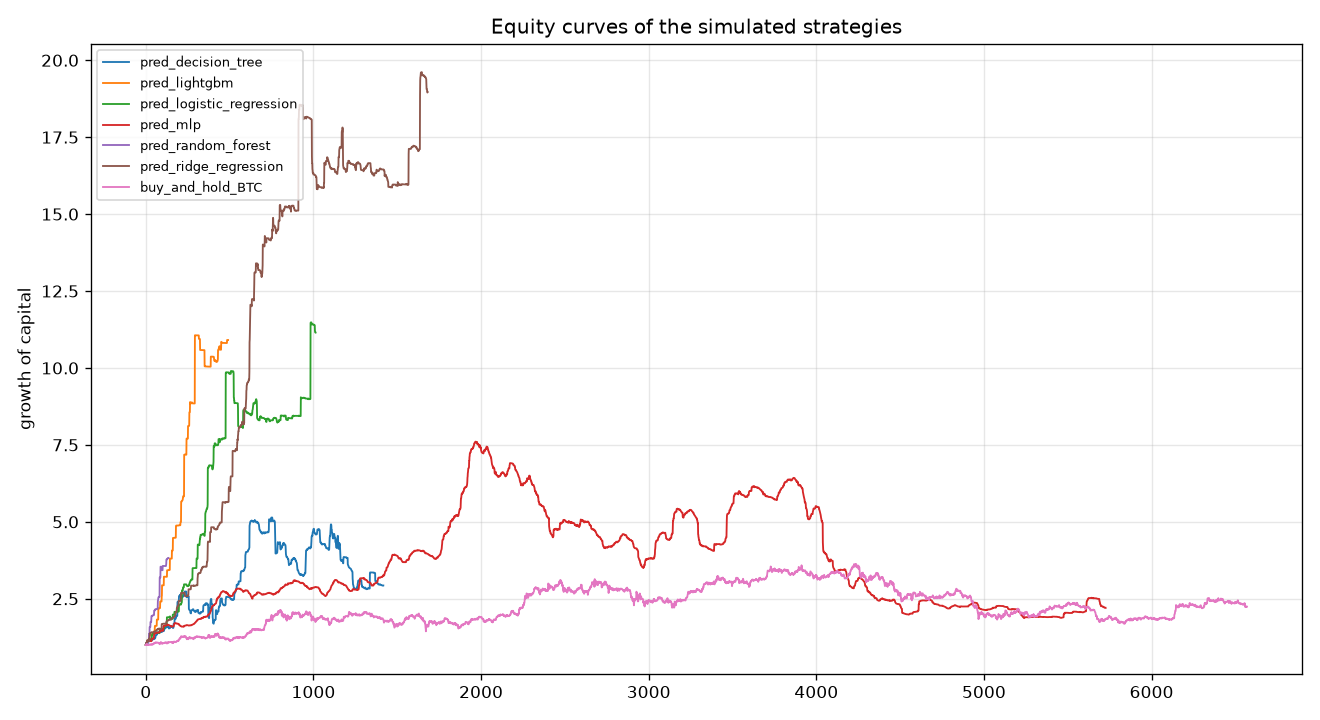
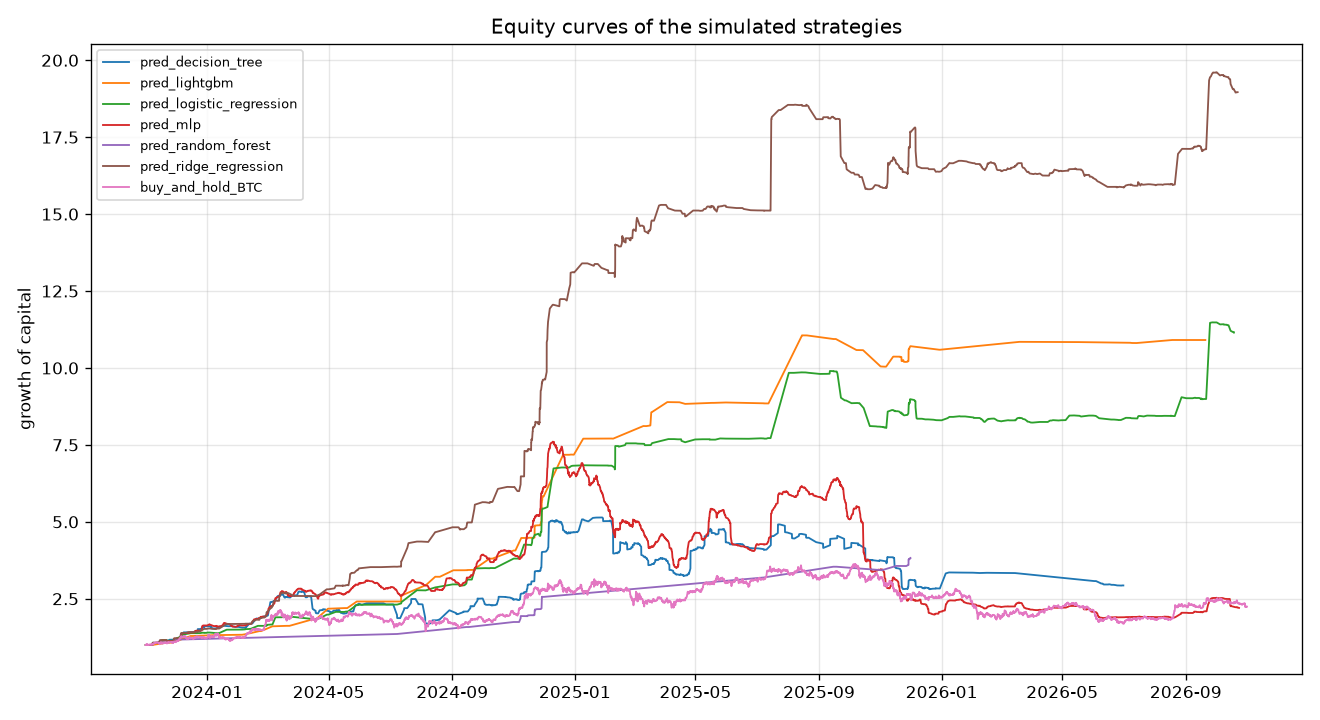
fix(project): draw the equity curves against the calendar
The curves were plotted against the number of events of each strategy,
so two strategies with a different number of trades could not be
compared. They now share the time axis, which shows where the growth
actually happened: most of it is in the window the models were fitted
on, and the ridge regression and the logistic regression add most of
the out-of-sample gains.

diff --git a/project/src/pipeline.py b/project/src/pipeline.py
@@ -119,9 +119,15 @@ def plot_equity_curves(equity_curves: dict, path: Path) -> None:
     for name, curve in equity_curves.items():
         if curve is None or len(curve) == 0:
             continue
-        series = pd.Series(np.asarray(curve, dtype="float64"))
+        values = np.asarray(curve, dtype="float64")
+        index = None
+        if isinstance(curve, pd.Series) and isinstance(curve.index, pd.DatetimeIndex):
+            index = curve.index
+        series = pd.Series(values, index=index)
         series = series / series.iloc[0]
-        ax.plot(series.index if isinstance(series.index, pd.DatetimeIndex) else range(len(series)),
+        # The curves are drawn against the calendar, not against the number of trades,
+        # otherwise two strategies with different trade counts are not comparable.
+        ax.plot(series.index if index is not None else range(len(series)),
                 series.to_numpy(), label=name, linewidth=1.1)
     ax.set_title("Equity curves of the simulated strategies")
     ax.set_ylabel("growth of capital")
@@ -461,7 +467,11 @@ def run(
                 res["equity_curve"], index=pd.DatetimeIndex(res["equity_curve_index"])
             )
         if bench_btc:
-            curves["buy_and_hold_BTC"] = pd.Series(bench_btc["equity_curve"])
+            btc_rows = panel[panel["ticker"] == "BTCUSDT"].sort_values("timestamp")
+            curves["buy_and_hold_BTC"] = pd.Series(
+                bench_btc["equity_curve"],
+                index=pd.DatetimeIndex(btc_rows["timestamp"].to_numpy()[: len(bench_btc["equity_curve"])]),
+            )
         plot_equity_curves(curves, C.OUTPUT_DIR / "equity_curves.png")
 
         # ---- diagnostics ---------------------------------------------------------------
